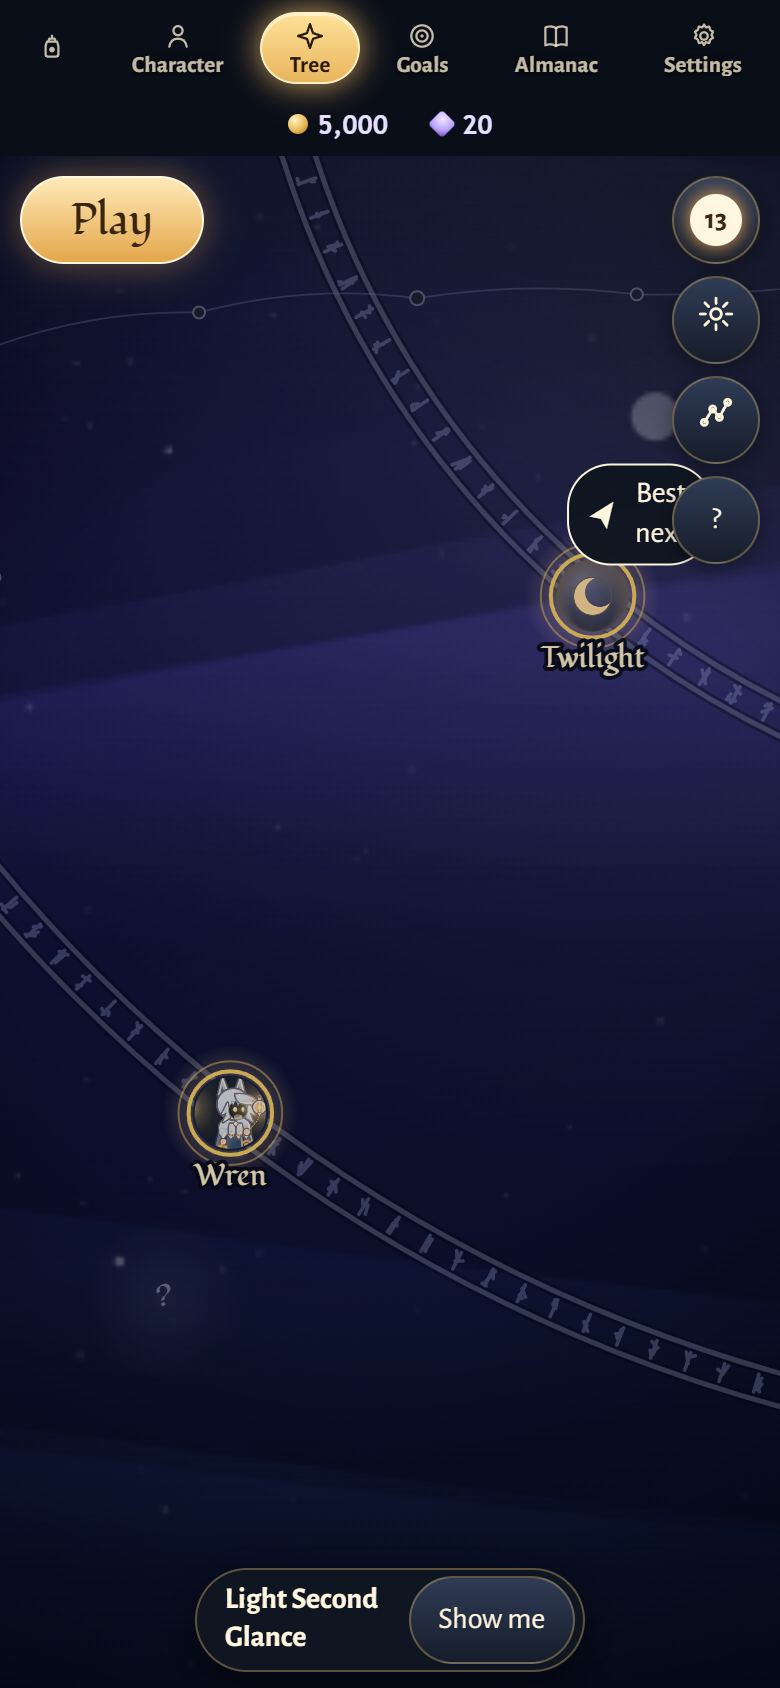
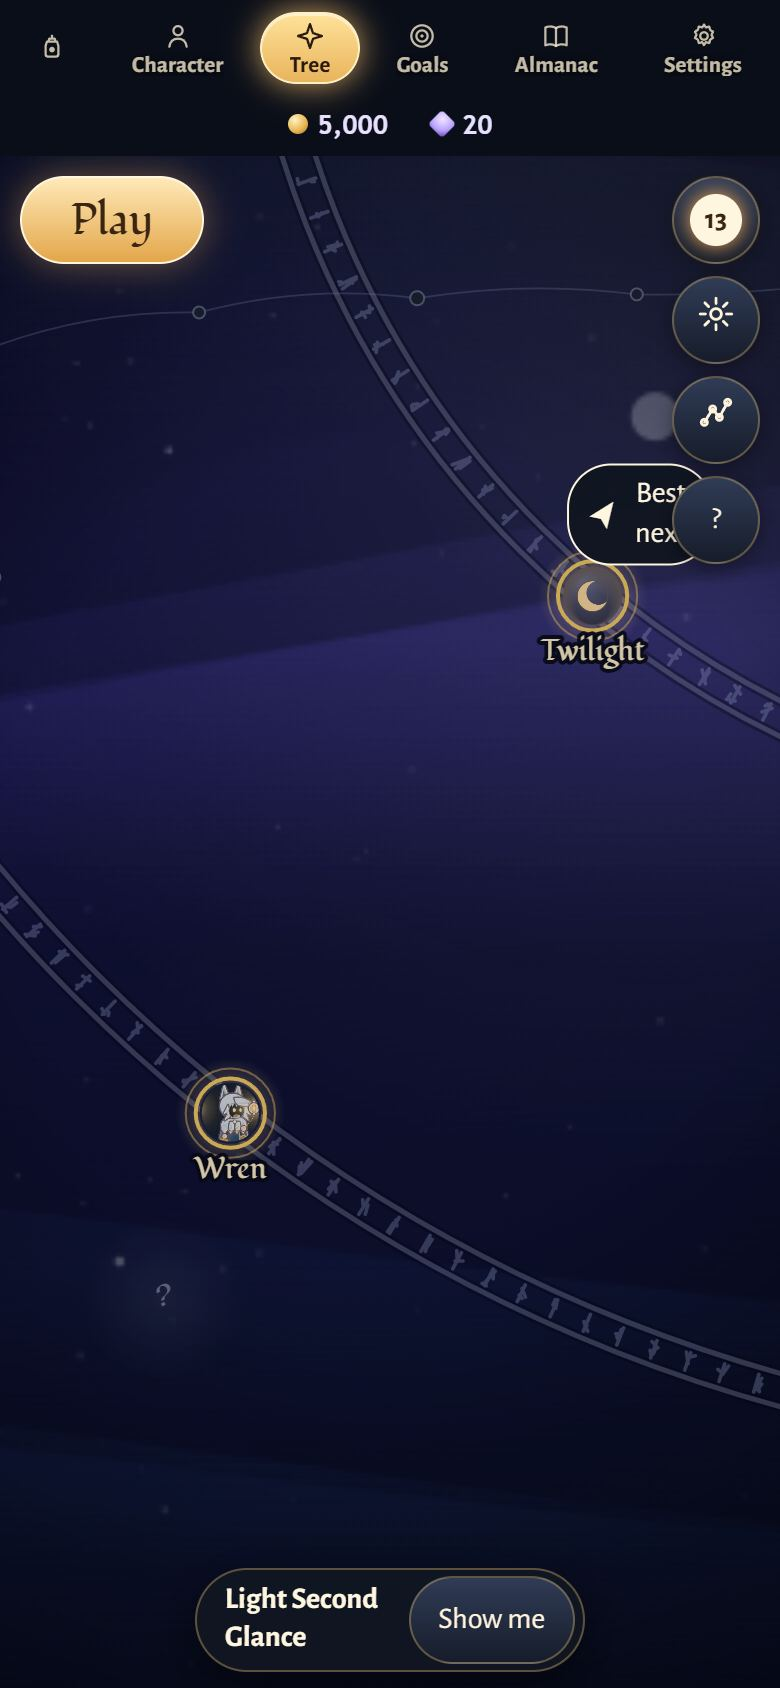
Tree polish 2: hero caption drawn last (never covered), landmark size ladder one step smaller for keys/gates/coins

Changed region(s): [[0.6769, 0.3081, 0.8308, 0.4005], [0.2154, 0.6161, 0.3692, 0.7085]]

diff --git a/src/ui/treescreen.js b/src/ui/treescreen.js
@@ -542,13 +542,13 @@ export class TreeScreen {
     const d = this.tiers.d[id];
     return screenDiameter(t, Number.isFinite(d) ? d : TIER_SIZE[t], this.cam.z, this.uk || 1) / 2;
   }
-  /** Landmark medallion diameter in px: base by kind (heart 1, key / socket / gate / hero / kin 0.74, teaser 0.54) x a gentle zoom factor, same everywhere on the map. */
+  /** Landmark medallion diameter in px: base by kind (heart 1, key / socket / gate / hero / kin 0.6, teaser 0.46) x a gentle zoom factor, same everywhere on the map. */
   /** Medallion zoom factor shared by every landmark and the hub coin: 0.64 zoomed right out, 1.12 close in. */
   zoomK() { return clamp(0.58 + 0.7 * this.cam.z, 0.64, 1.12); }
-  /** Radius of a landmark-sized medallion with this size step (heart 1, others 0.74). */
+  /** Radius of a landmark-sized medallion with this size step (heart 1, others 0.6). */
   stdR(step) { return ((this.small ? 62 : 92) * step * (this.uk || 1) * LOOK.medSize * this.zoomK()) / 2; }
   landmarkD(id) { return this.presence(id) * (this.uk || 1) * LOOK.medSize * this.zoomK(); }
-  presence(id) { const k = this.def.nodes[id].kind; return (this.small ? 62 : 92) * (k === 'heart' ? 1 : k === 'teaser' ? 0.54 : 0.74); }
+  presence(id) { const k = this.def.nodes[id].kind; return (this.small ? 62 : 92) * (k === 'heart' ? 1 : k === 'teaser' ? 0.46 : 0.6); }
   boost() { return clamp((this.view.lod.near - this.cam.z) / (this.view.lod.near - 0.3), 0, 1); }
   /** FAR only: greedy collapse of landmarks that would overlap on screen. Returns Map id -> leader id (leaders map to themselves); this.farCount = leader -> how many hidden behind it. */
   collapseFar(ids) {
@@ -697,7 +697,6 @@ export class TreeScreen {
     c.fillStyle = hl;
     c.beginPath(); c.arc(hx, hy, hr * 2.6, 0, 7); c.fill();
     this.drawHub(c, hx, hy, hr);
-    this.hubCaption(c, hx, hy, hr);
     if (lod === 'far') {
       const ty = 10 * (this.uk || 1); // docked at the top of the map, never among the landmarks
       if (!this.lastRB.concat(this.lblBoxes || []).some((b) => b.x0 < W / 2 + 100 && b.x1 > W / 2 - 100 && b.y0 < ty + 18 && b.y1 > ty)) {
@@ -708,6 +707,7 @@ export class TreeScreen {
       }
     }
     if (best) this.drawBestMarker(c, t, lod);
+    this.hubCaption(c, hx, hy, hr); // last: nothing (pins, tags, coins) may cover the hero caption
     if (this.atlas.pending) this.dirty(); // over the 4-bakes-per-frame budget: the rest comes next frame
     const now = performance.now();
     this.anims = this.anims.filter((a) => now - a.t0 < 650);
@@ -896,7 +896,7 @@ export class TreeScreen {
     }
     if (this.atlas.pending) this.dirty();
   }
-  toolR() { return this.stdR(0.74); } // a tool group's picture coin is a plain landmark (same size as a key / socket / gate)
+  toolR() { return this.stdR(0.6); } // a tool group's picture coin is a plain landmark (same size as a key / socket / gate)
   costText(nx) {
     if (!nx) return '';
     const p = [];
@@ -1060,7 +1060,7 @@ export class TreeScreen {
   drawDisplay(c, lod) {
     if (!this.display || !this.display.length) return;
     const z = this.cam.z, uk = this.uk || 1, s = this.api.save();
-    const r = this.stdR(0.74); // display medallions (heroes, nights, reserved slots) are plain landmarks too
+    const r = this.stdR(0.6); // display medallions (heroes, nights, reserved slots) are plain landmarks too
     for (const d of this.display) {
       const [x, y] = this.toS(d.x, d.y);
       if (x < -r - 60 || x > this.W + r + 60 || y < -r - 40 || y > this.H + r + 60) continue;
